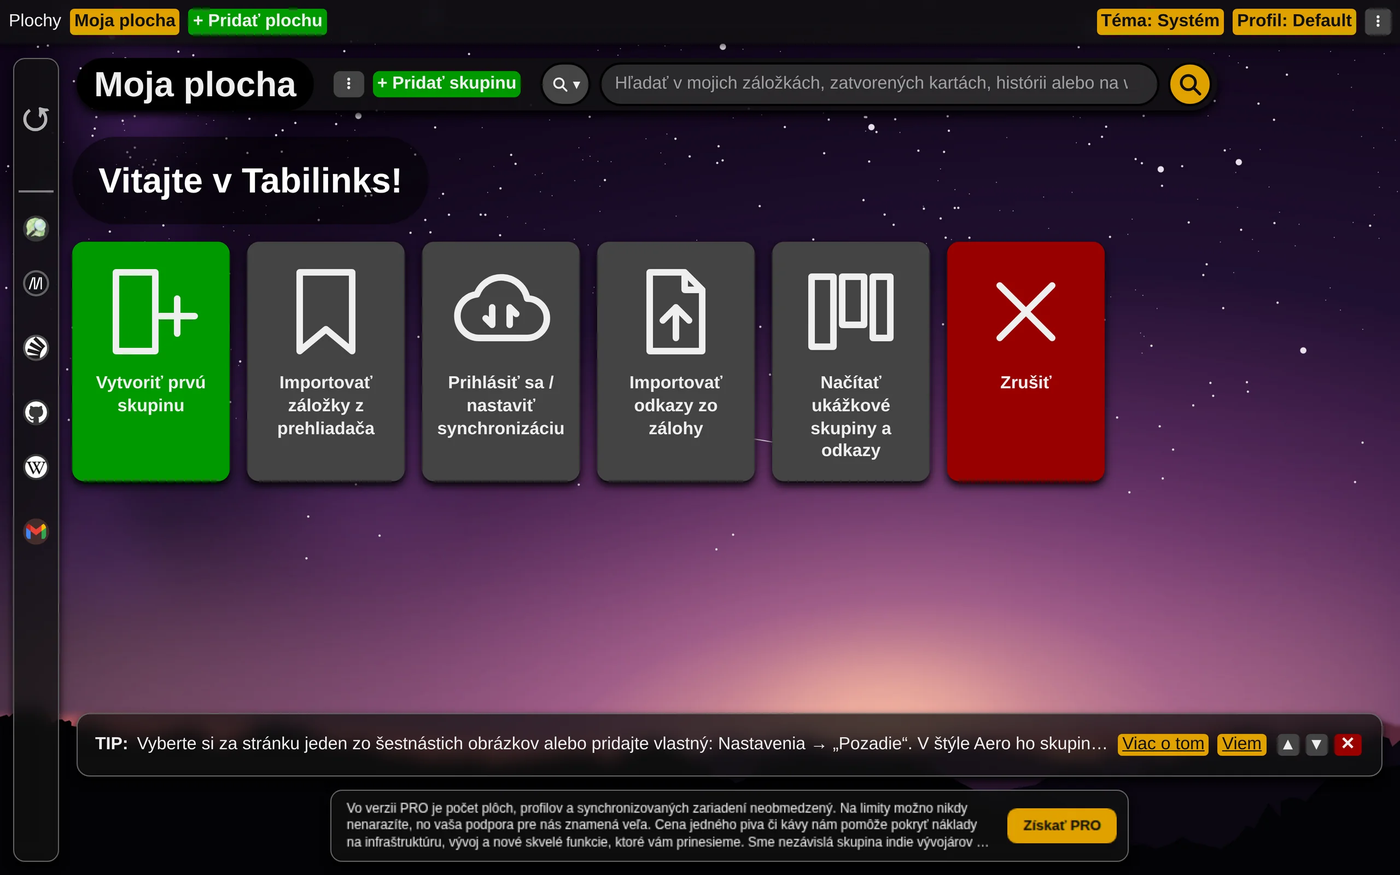
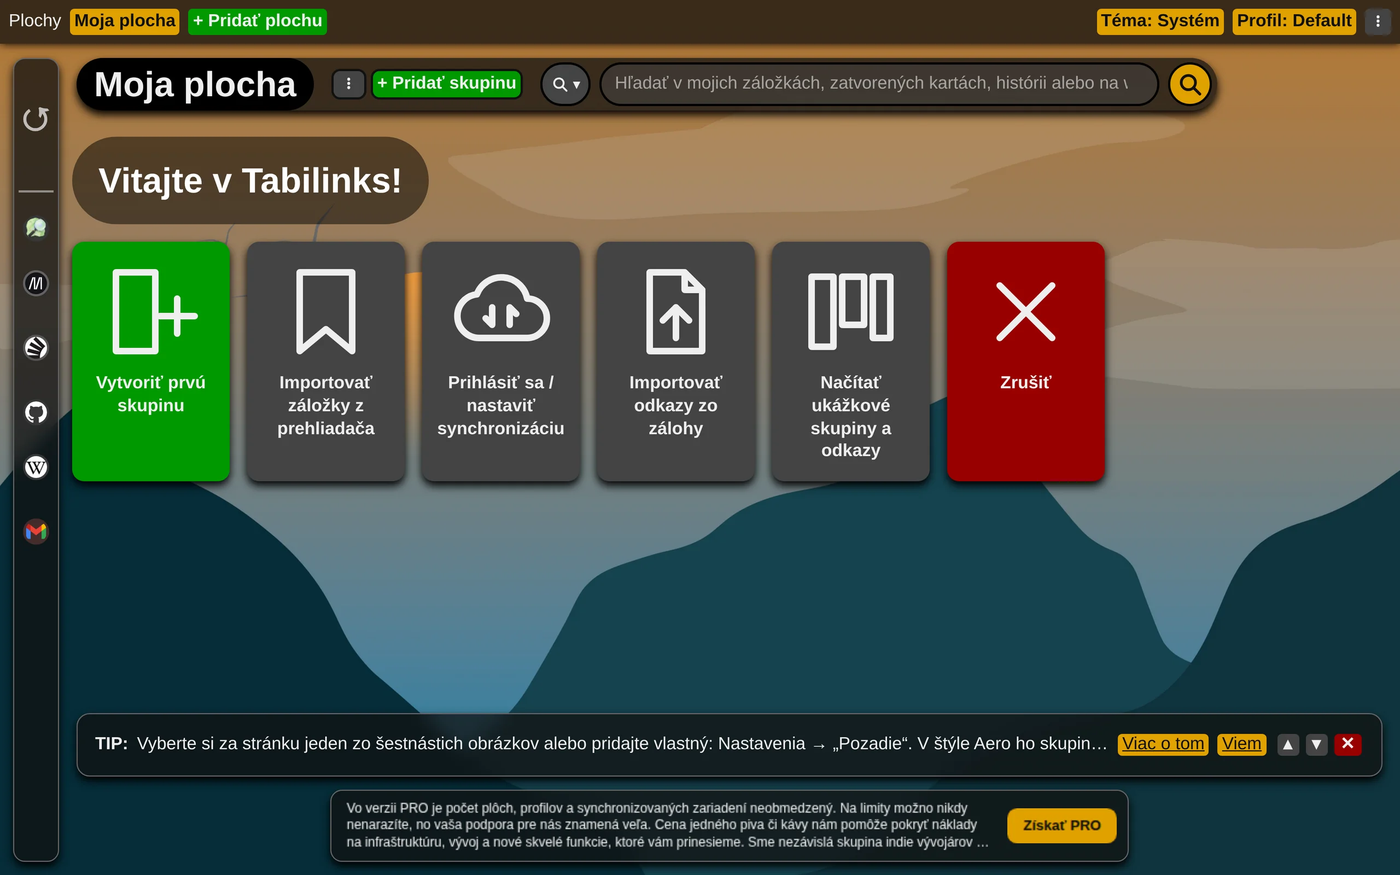
0.5.0 tips pictured, Save in one click highlight, privacy policy
The favorites, flash-save, accent-colour, resize-and-sort-groups and
import-bookmarks tips get their pictures (rendered by the extension's
Playwright scenes), each placed after what it shows; the ones only a
hand can take are listed at the tip's end. A new home page highlight,
"Save in one click", for fast-paced link grabbers, with its own SVG; the
others move down one place. The privacy policy says a backup file and
the example links stay in the browser, and that a link's icon may be
asked of that link's own website. Legal documents effective 2026-11-18.
lets-begin/1 is re-rendered over the right background.

diff --git a/src/app/core/legal/legal-operator.ts b/src/app/core/legal/legal-operator.ts
@@ -26,4 +26,4 @@ export const LEGAL_OPERATOR = {
  *
  * <p>Raise it whenever the wording of any of them changes in substance.</p>
  */
-export const LEGAL_DOCUMENTS_EFFECTIVE_DATE = '2026-11-15';
+export const LEGAL_DOCUMENTS_EFFECTIVE_DATE = '2026-11-18';

diff --git a/public/content/tips/sk/import-bookmarks.md b/public/content/tips/sk/import-bookmarks.md
@@ -4,11 +4,15 @@ Roky zbierané záložky nemusíte písať znova. Tabilinks dokáže priečinky 
 
 Prázdna plocha ponúka medzi uvítacími dlaždicami aj **„Importovať záložky z prehliadača“**. Kliknite naň. Prehliadač sa raz spýta na povolenie čítať vaše záložky - až v tejto chvíli, nikdy skôr.
 
+![Uvítanie pri prvom spustení, orámované „Importovať záložky z prehliadača“](../../../images/sk/tips/import-bookmarks/1_1x.webp)
+
 ## Čo si priniesť
 
 Dialóg ponúkne každý priečinok, ktorý leží priamo v paneli so záložkami, v ostatných záložkách a v mobilných záložkách, pri každom počet odkazov v ňom, a všetky budú zaškrtnuté. Ponúknuté sú aj záložky, ktoré v niektorom z nich ležia voľne, mimo priečinkov - ako skupina pomenovaná podľa neho.
 
 Odškrtnite, čo nechcete, a kliknite na **„Importovať“**:
+
+![Dialóg „Import záložiek“, všetky priečinky zaškrtnuté, pri každom počet odkazov](../../../images/sk/tips/import-bookmarks/3_1x.webp)
 
 - z každého zaškrtnutého priečinka bude skupina,
 - z jeho podpriečinkov podskupiny,
@@ -16,9 +20,13 @@ Odškrtnite, čo nechcete, a kliknite na **„Importovať“**:
 
 Bookmarklety - záložky, ktorých adresa začína `javascript:` - sa preskočia.
 
+![Plocha po importe: priečinky ako skupiny, podpriečinky ako podskupiny](../../../images/sk/tips/import-bookmarks/5_1x.webp)
+
 ## Limity
 
 Plocha pojme {fairUseGroupsPerWorkspace} skupín, {fairUseSubgroupsPerGroup} podskupín v skupine a {fairUseLinksPerWorkspace} odkazov. Ak by zaškrtnuté priečinky niektorý z týchto limitov prekročili, dialóg povie ktorý a „Importovať“ zostane neaktívne, kým ich neodškrtnete dosť.
+
+![Ten istý dialóg nad limitom, s jeho názvom a neaktívnym „Importovať“](../../../images/sk/tips/import-bookmarks/4_1x.webp)
 
 ## Súkromie
 
@@ -27,12 +35,7 @@ Záložky sa čítajú v prehliadači a nikam sa neposielajú. Po importe sú to
 Práve ste si nainštalovali Tabilinks? Začnite tu: [Začíname](lets-begin.md)
 
 <!--
-Obrázky, ktoré má tento tip dostať (svetlý vzhľad, anglicky aj slovensky):
-1. import-bookmarks/1 - prázdna plocha s uvítacími dlaždicami, zvýraznené „Importovať záložky z prehliadača“.
-2. import-bookmarks/2 - výzva prehliadača na povolenie čítať záložky.
-3. import-bookmarks/3 - dialóg importu záložiek s niekoľkými priečinkami, všetky zaškrtnuté, pri každom počet odkazov.
-4. import-bookmarks/4 - ten istý dialóg nad limitom, so správou, ktorý limit to je, „Importovať“ neaktívne.
-5. import-bookmarks/5 - plocha po importe, z priečinkov sú skupiny a z podpriečinkov podskupiny.
-Navrhované súbory: 1_1x.webp až 5_1x.webp v images/LANG/tips/import-bookmarks/
-Obrázok 2 je vlastná výzva prehliadača, ktorú snímka stránky nemusí zachytiť.
+Still to be pictured by hand:
+2. import-bookmarks/2 - the browser's permission prompt to read bookmarks (the browser's own, a page screenshot cannot capture it).
+Suggested file: 2_1x.webp in images/LANG/tips/import-bookmarks/
 -->

diff --git a/public/content/tips/sk/flash-save.md b/public/content/tips/sk/flash-save.md
@@ -4,6 +4,8 @@ Našli ste niečo, čo stojí za to si ponechať, ale nemáte čas rozhodovať, 
 
 Kliknite pravým tlačidlom na ktorúkoľvek stránku - alebo na odkaz na nej - otvorte položku **Tabilinks** a zvoľte **Rýchle uloženie**. Stránka sa uloží hneď, bez otázok, do skupiny „Rýchle uloženie“ v ploche, ktorú máte otvorenú. Skupina sa vytvorí pri prvom použití a ikona rozšírenia na lište ukáže fajku na znak, že stránka je uložená.
 
+![Nová karta so skupinou „Rýchle uloženie“ s niekoľkými uloženými stránkami](../../../images/sk/tips/flash-save/3_1x.webp)
+
 ## Bez myši
 
 **Alt+Shift+F** urobí to isté so stránkou, na ktorej práve ste, celkom bez ponuky. Skratku si môžete zmeniť na stránke prehliadača chrome://extensions/shortcuts.
@@ -14,6 +16,8 @@ V Nastaveniach → „Vzhľad a správanie“ určuje „Akcie v kontextovej pon
 
 - **Štandardné** - položka Tabilinks s Rýchlym uložením, Pridaním záložky… a Uložením do skupiny.
 - **Rýchle zbieranie odkazov** - len „Tabilinks: Rýchle uloženie“, priamo v ponuke, jedným kliknutím.
+
+![Nastavenia, Vzhľad a správanie, zvolené „Rýchle zbieranie odkazov“](../../../images/sk/tips/flash-save/4_1x.webp)
 
 ## Keď nie je miesto
 
@@ -26,12 +30,9 @@ Skupina „Rýchle uloženie“ je obyčajná skupina. Jej odkazy zoradíte voľ
 Zvyšok ponuky pravého tlačidla - uloženie s názvom alebo priamo do vybranej skupiny - nájdete v tipe [Uložiť práve prezeranú stránku](saving-from-webpage.md)
 
 <!--
-Obrázky, ktoré má tento tip dostať (svetlý vzhľad, anglicky aj slovensky):
-1. flash-save/1 - webová stránka s otvorenou ponukou pravého tlačidla prehliadača, v podponuke Tabilinks zvýraznené „Rýchle uloženie“.
-2. flash-save/2 - lišta s ikonou rozšírenia, ktorá po rýchlom uložení ukazuje fajku.
-3. flash-save/3 - nová karta so skupinou „Rýchle uloženie“ a niekoľkými uloženými stránkami.
-4. flash-save/4 - Nastavenia v sekcii „Vzhľad a správanie“, „Akcie v kontextovej ponuke prehliadača“ prepnuté na „Rýchle zbieranie odkazov“.
-5. flash-save/5 - ponuka pravého tlačidla v rýchlom režime s jedinou položkou „Tabilinks: Rýchle uloženie“.
-Navrhované súbory: 1_1x.webp až 5_1x.webp v images/LANG/tips/flash-save/
-Obrázky 1, 2 a 5 ukazujú ponuky a lištu prehliadača, ktoré snímka stránky nemusí zachytiť.
+Still to be pictured by hand (the browser's own menus and toolbar, which a page screenshot cannot capture):
+1. flash-save/1 - a web page with the browser's right-click menu open, the Tabilinks submenu showing "Flash save" highlighted.
+2. flash-save/2 - the toolbar with the extension's icon showing the tick after a flash save.
+5. flash-save/5 - the right-click menu in fast-paced mode, with the single "Tabilinks: Flash save" entry.
+Suggested files: 1_1x.webp, 2_1x.webp and 5_1x.webp in images/LANG/tips/flash-save/
 -->

diff --git a/public/content/tips/en/import-bookmarks.md b/public/content/tips/en/import-bookmarks.md
@@ -4,11 +4,15 @@ Years of bookmarks do not have to be typed in again. Tabilinks can turn your bro
 
 On an empty space, the welcome tiles include **"Import bookmarks from the browser"**. Click it. The browser asks once for permission to read your bookmarks - only then, never before.
 
+![The first-run welcome, "Import bookmarks from the browser" framed](../../../images/en/tips/import-bookmarks/1_1x.webp)
+
 ## Choosing what to bring
 
 The dialog offers every folder that sits directly inside Bookmarks bar, Other bookmarks and Mobile bookmarks, each with the number of links in it, all ticked. Bookmarks lying loose in one of those, outside any folder, are offered too, as a group named after it.
 
 Untick what you do not want, then click **"Import"**:
+
+![The "Import bookmarks" dialog, every folder ticked, each with its link count](../../../images/en/tips/import-bookmarks/3_1x.webp)
 
 - each ticked folder becomes a group,
 - its subfolders become subgroups,
@@ -16,9 +20,13 @@ Untick what you do not want, then click **"Import"**:
 
 Bookmarklets - bookmarks whose address starts with `javascript:` - are skipped.
 
+![The space after the import: folders as groups, subfolders as subgroups](../../../images/en/tips/import-bookmarks/5_1x.webp)
+
 ## Limits
 
 A space holds {fairUseGroupsPerWorkspace} groups, {fairUseSubgroupsPerGroup} subgroups in a group and {fairUseLinksPerWorkspace} links. If the ticked folders would go over any of these, the dialog says which, and "Import" stays disabled until you untick enough.
+
+![The same dialog over a limit, naming it, "Import" disabled](../../../images/en/tips/import-bookmarks/4_1x.webp)
 
 ## Privacy
 
@@ -27,12 +35,7 @@ Your bookmarks are read in the browser and never sent anywhere. Once imported, t
 Just installed Tabilinks? Start here: [Let's begin](lets-begin.md)
 
 <!--
-Pictures this tip should get (light theme, English and Slovak):
-1. import-bookmarks/1 - an empty space with its welcome tiles, "Import bookmarks from the browser" highlighted.
-2. import-bookmarks/2 - the browser's permission prompt to read bookmarks.
-3. import-bookmarks/3 - the "Import bookmarks" dialog listing several folders, all ticked, each with its link count.
-4. import-bookmarks/4 - the same dialog over a limit, its message naming which limit, "Import" disabled.
-5. import-bookmarks/5 - the space after the import, folders turned into groups and subfolders into subgroups.
-Suggested files: 1_1x.webp to 5_1x.webp in images/LANG/tips/import-bookmarks/
-Picture 2 is the browser's own prompt, which a page screenshot may not capture.
+Still to be pictured by hand:
+2. import-bookmarks/2 - the browser's permission prompt to read bookmarks (the browser's own, a page screenshot cannot capture it).
+Suggested file: 2_1x.webp in images/LANG/tips/import-bookmarks/
 -->

diff --git a/public/content/tips/sk/resize-and-sort-groups.md b/public/content/tips/sk/resize-and-sort-groups.md
@@ -6,7 +6,13 @@ Skupina nemusí byť taká široká a vysoká, ako ju urobí stránka. Nastavte 
 
 Potiahnutím pravého dolného rohu skupiny nastavíte jej šírku aj výšku - širšiu, užšiu, vyššiu alebo nižšiu, ľubovoľným smerom. Skupina nižšia, ako sú jej odkazy, sa dá posúvať.
 
+![Skupina zväčšovaná ťahaním za pravý dolný roh, širšia a vyššia ako susedné](../../../images/sk/tips/resize-and-sort-groups/1_1x.webp)
+
+![Skupina nižšia ako jej odkazy, posunutá do polovice](../../../images/sk/tips/resize-and-sort-groups/2_1x.webp)
+
 Veľkosť si pamätá len toto zariadenie, takže široká obrazovka aj malý notebook môžu mať každý svoju. K automatickej veľkosti sa vrátite dvojklikom na roh alebo voľbou **„Obnoviť veľkosť“** v ponuke skupiny (tri bodky).
+
+![Ponuka zväčšenej skupiny so „Zoradiť odkazy“ a „Obnoviť veľkosť“](../../../images/sk/tips/resize-and-sort-groups/3_1x.webp)
 
 ## Zoradenie
 
@@ -17,16 +23,14 @@ V ponuke skupiny zvoľte **„Zoradiť odkazy“** a potom jednu z možností:
 - **Názov A–Z**
 - **Názov Z–A**
 
+![Dialóg „Zoradiť odkazy“](../../../images/sk/tips/resize-and-sort-groups/4_1x.webp)
+
 Podskupiny si ponechajú svoje miesto a ich vlastné odkazy sa zoradia tiež.
 
 Zoradenie sa urobí raz, nie je to nastavenie: odkazy pridané neskôr pôjdu na koniec a ktorýkoľvek z nich môžete stále presunúť ťahaním. [Usporiadanie položiek ťahaním myšou](use-drag-and-drop.md)
 
 <!--
-Obrázky, ktoré má tento tip dostať (svetlý vzhľad, anglicky aj slovensky):
-1. resize-and-sort-groups/1 - skupina s kurzorom na pravom dolnom rohu počas ťahania, viditeľne širšia a vyššia ako susedné.
-2. resize-and-sort-groups/2 - skupina nižšia, ako sú jej odkazy, čiastočne posunutá.
-3. resize-and-sort-groups/3 - otvorená ponuka skupiny (tri bodky) s položkami „Zoradiť odkazy“ a „Obnoviť veľkosť“.
-4. resize-and-sort-groups/4 - dialóg „Zoradiť odkazy“ s možnosťami Najnovšie prvé, Najstaršie prvé, Názov A–Z a Názov Z–A.
-5. resize-and-sort-groups/5 - tá istá skupina pred zoradením podľa názvu a po ňom, podskupina v oboch na tom istom mieste.
-Navrhované súbory: 1_1x.webp až 5_1x.webp v images/LANG/tips/resize-and-sort-groups/
+Still to be pictured:
+5. resize-and-sort-groups/5 - the same group before and after sorting by name, a subgroup in the same place in both.
+Suggested file: 5_1x.webp in images/LANG/tips/resize-and-sort-groups/
 -->

diff --git a/public/content/tips/sk/favorites.md b/public/content/tips/sk/favorites.md
@@ -4,11 +4,17 @@ Niektoré odkazy otvárate každý deň, iné raz za mesiac. Tie každodenné si
 
 Obľúbené sú vypnuté, kým si ich nezapnete: otvorte menu (tri bodky vpravo hore) → Nastavenia → „Funkcie“ a zaškrtnite **„Obľúbené“**.
 
+![Nastavenia, Funkcie, zaškrtnuté Obľúbené](../../../images/sk/tips/favorites/1_1x.webp)
+
 ## Označenie odkazu
 
 Odvtedy má každý odkaz na konci krúžok. Kliknite naň a zozlatne - odkaz je obľúbený. Ďalším kliknutím označenie zrušíte.
 
+![Skupina odkazov s krúžkom na konci každého, dva zozlatnuté](../../../images/sk/tips/favorites/2_1x.webp)
+
 Odkaz označíte aj z jeho ponuky pravého tlačidla, položkami **„Pridať medzi obľúbené“** a **„Odobrať z obľúbených“**, alebo hneď pri pridávaní, zaškrtnutím **„Obľúbený“** v ukladacom okne.
+
+![Ponuka pravého tlačidla odkazu s položkou „Pridať medzi obľúbené“](../../../images/sk/tips/favorites/3_1x.webp)
 
 ## Z bočného panela a vyhľadávania
 
@@ -20,18 +26,12 @@ Bočný panel má vlastnú kartu **„Obľúbené“**. Zobrazuje obľúbené od
 
 Pretiahnite odkaz na túto kartu a označíte ho. Odkaz zostane tam, kde bol, vo svojej skupine.
 
+![Bočný panel otvorený na karte Obľúbené](../../../images/sk/tips/favorites/4_1x.webp)
+
 Okno ikony na lište zobrazuje tie isté obľúbené pod svojím formulárom, takže ich máte poruke na ktorejkoľvek stránke.
+
+![Okno ikony na lište s obľúbenými pod formulárom](../../../images/sk/tips/favorites/5_1x.webp)
 
 Obľúbené sa synchronizujú s vaším účtom, rovnako ako samotné odkazy.
 
 Viac o bočnom paneli: [Objav históriu](discover-history.md)
-
-<!--
-Obrázky, ktoré má tento tip dostať (svetlý vzhľad, anglicky aj slovensky):
-1. favorites/1 - Nastavenia otvorené na kategórii „Funkcie“, zaškrtnuté „Obľúbené“.
-2. favorites/2 - skupina odkazov s krúžkom na konci každého riadka, dva z nich zlaté (označené); kurzor nad prázdnym krúžkom.
-3. favorites/3 - ponuka pravého tlačidla odkazu s položkou „Pridať medzi obľúbené“.
-4. favorites/4 - bočný panel otvorený na karte „Obľúbené“, obľúbené odkazy otvorenej plochy so svojimi skupinami.
-5. favorites/5 - okno ikony na lište s formulárom a pod ním zoznam obľúbených.
-Navrhované súbory: 1_1x.webp až 5_1x.webp v images/LANG/tips/favorites/
--->

diff --git a/public/content/tips/en/flash-save.md b/public/content/tips/en/flash-save.md
@@ -4,6 +4,8 @@ Found something worth keeping but no time to decide where it goes? Flash save ke
 
 Right-click any page - or a link on it - open the **Tabilinks** entry and choose **Flash save**. The page is saved at once, with no questions, into a group called "Flash save" in the space you have open. The group is made the first time you use it, and the extension's icon in the toolbar shows a tick to say the page was kept.
 
+![The new tab page with the "Flash save" group holding a few saved pages](../../../images/en/tips/flash-save/3_1x.webp)
+
 ## Without the mouse
 
 **Alt+Shift+F** does the same for the page you are on, with no menu at all. You can change the shortcut on the browser's page chrome://extensions/shortcuts.
@@ -14,6 +16,8 @@ In Settings → "UI and behavior", "Browser context menu actions" decides what t
 
 - **Standard** - the Tabilinks entry with Flash save, Add bookmark… and Save to group.
 - **Fast-paced link grabbing** - only "Tabilinks: Flash save", straight in the menu, one click.
+
+![Settings, UI and behavior, "Fast-paced link grabbing" chosen](../../../images/en/tips/flash-save/4_1x.webp)
 
 ## When there is no room
 
@@ -26,12 +30,9 @@ The "Flash save" group is an ordinary group. Put its links in order with "Sort l
 The rest of the right-click menu - saving with a name, or straight into a group you pick - is in [Save the page you are viewing](saving-from-webpage.md)
 
 <!--
-Pictures this tip should get (light theme, English and Slovak):
+Still to be pictured by hand (the browser's own menus and toolbar, which a page screenshot cannot capture):
 1. flash-save/1 - a web page with the browser's right-click menu open, the Tabilinks submenu showing "Flash save" highlighted.
 2. flash-save/2 - the toolbar with the extension's icon showing the tick after a flash save.
-3. flash-save/3 - the new tab page with the "Flash save" group holding a few saved pages.
-4. flash-save/4 - Settings at "UI and behavior", the "Browser context menu actions" choice set to "Fast-paced link grabbing".
 5. flash-save/5 - the right-click menu in fast-paced mode, with the single "Tabilinks: Flash save" entry.
-Suggested files: 1_1x.webp to 5_1x.webp in images/LANG/tips/flash-save/
-Pictures 1, 2 and 5 show browser menus and the toolbar, which a page screenshot may not capture.
+Suggested files: 1_1x.webp, 2_1x.webp and 5_1x.webp in images/LANG/tips/flash-save/
 -->

diff --git a/public/content/tips/en/favorites.md b/public/content/tips/en/favorites.md
@@ -4,11 +4,17 @@ Some links you open every day, others once a month. Mark the everyday ones as fa
 
 Favorites are off until you turn them on: open the menu (the three dots at the top right) → Settings → "Functions" and check **"Favorites"**.
 
+![Settings, Functions, the Favorites checkbox ticked](../../../images/en/tips/favorites/1_1x.webp)
+
 ## Marking a link
 
 From then on every link has a circle at its end. Click it and it turns golden - the link is a favorite. Click it again to unmark it.
 
+![A group of links with a circle at the end of each, two of them golden](../../../images/en/tips/favorites/2_1x.webp)
+
 A link can also be marked from its right-click menu, with **"Add to favorites"** and **"Remove from favorites"**, or straight away when you add it, by ticking **"Favorite"** in the save window.
+
+![A link's right-click menu with "Add to favorites"](../../../images/en/tips/favorites/3_1x.webp)
 
 ## From the side panel and the search bar
 
@@ -20,18 +26,12 @@ The side panel has a **"Favorites"** card of its own. It lists the favorites of 
 
 Drag a link onto the card to mark it. The link stays where it was, in its group.
 
+![The side panel open on the Favorites card](../../../images/en/tips/favorites/4_1x.webp)
+
 The toolbar popup lists the same favorites under its form, so they are at hand on any page.
+
+![The toolbar popup with the favorites listed under its form](../../../images/en/tips/favorites/5_1x.webp)
 
 Favorites are synchronized with your account, just like the links themselves.
 
 More about the side panel: [Discover history](discover-history.md)
-
-<!--
-Pictures this tip should get (light theme, English and Slovak):
-1. favorites/1 - Settings opened at the "Functions" category, the "Favorites" checkbox ticked.
-2. favorites/2 - a group of links with the circle at the end of each row, two of them golden (marked); the pointer over an empty circle.
-3. favorites/3 - a link's right-click menu showing "Add to favorites".
-4. favorites/4 - the side panel open on the "Favorites" card, the open space's favorites listed with their groups.
-5. favorites/5 - the toolbar popup with its form and the favorites listed under it.
-Suggested files: 1_1x.webp to 5_1x.webp in images/LANG/tips/favorites/
--->

diff --git a/public/content/tips/en/resize-and-sort-groups.md b/public/content/tips/en/resize-and-sort-groups.md
@@ -6,7 +6,13 @@ A group does not have to be as wide and as tall as the page makes it. Make it th
 
 Drag a group's bottom-right corner to set its width and height - wider, narrower, taller or shorter, in any direction. A group made shorter than its links scrolls.
 
+![A group being resized by its bottom-right corner, wider and taller than its neighbours](../../../images/en/tips/resize-and-sort-groups/1_1x.webp)
+
+![A group made shorter than its links, scrolled part way](../../../images/en/tips/resize-and-sort-groups/2_1x.webp)
+
 The size is remembered on this device only, so a wide screen and a small laptop can each have their own. To go back to the automatic size, double-click the corner, or choose **"Reset size"** in the group's menu (the three dots).
+
+![A resized group's menu with "Sort links" and "Reset size"](../../../images/en/tips/resize-and-sort-groups/3_1x.webp)
 
 ## Sort
 
@@ -17,16 +23,14 @@ Choose **"Sort links"** in the group's menu, then one of:
 - **Name A–Z**
 - **Name Z–A**
 
+![The "Sort links" dialog](../../../images/en/tips/resize-and-sort-groups/4_1x.webp)
+
 Subgroups keep their places, and their own links are sorted too.
 
 Sorting is done once, it is not a setting: links you add later go to the end, and you can still move any of them by dragging. [Use drag-and-drop to organize items](use-drag-and-drop.md)
 
 <!--
-Pictures this tip should get (light theme, English and Slovak):
-1. resize-and-sort-groups/1 - a group with the pointer on its bottom-right corner, mid-drag, the group visibly wider and taller than its neighbours.
-2. resize-and-sort-groups/2 - a group made shorter than its links, scrolled part way.
-3. resize-and-sort-groups/3 - a group's menu (three dots) open, showing "Sort links" and "Reset size".
-4. resize-and-sort-groups/4 - the "Sort links" dialog with Newest first, Oldest first, Name A–Z and Name Z–A.
+Still to be pictured:
 5. resize-and-sort-groups/5 - the same group before and after sorting by name, a subgroup in the same place in both.
-Suggested files: 1_1x.webp to 5_1x.webp in images/LANG/tips/resize-and-sort-groups/
+Suggested file: 5_1x.webp in images/LANG/tips/resize-and-sort-groups/
 -->

diff --git a/public/content/tips/en/accent-colour.md b/public/content/tips/en/accent-colour.md
@@ -4,6 +4,8 @@ The accent colour is the one that says "this is active" - it colours active and 
 
 Choose it in Settings → "UI and behavior" → **"Accent colour"**, from seven swatches:
 
+![Settings, UI and behavior, the seven accent colour swatches](../../../images/en/tips/accent-colour/1_1x.webp)
+
 - **Amber** - the default, drawn with dark text on it, so it stays readable
 - **Blue**
 - **Indigo**
@@ -14,12 +16,8 @@ Choose it in Settings → "UI and behavior" → **"Accent colour"**, from seven 
 
 The change applies straight away.
 
-Like the theme, the accent colour is not synchronized; it is remembered only in the browser where you set it. To choose between light and dark, flat and glass: [Choose a light or dark theme](choose-theme.md)
+![The same corner of the page in amber, blue and magenta, light theme](../../../images/en/tips/accent-colour/2_1x.webp)
 
-<!--
-Pictures this tip should get (English and Slovak):
-1. accent-colour/1 - Settings at "UI and behavior", the "Accent colour" row with its seven swatches, one of them chosen.
-2. accent-colour/2 - the same part of the page (a highlighted button, the chosen side panel card, a focused field) in three accents side by side, e.g. blue, magenta and amber, light theme.
-3. accent-colour/3 - the same with a dark theme, to show amber's dark text.
-Suggested files: 1_1x.webp to 3_1x.webp in images/LANG/tips/accent-colour/
--->
+![The same corner of the page in amber, blue and magenta, dark theme](../../../images/en/tips/accent-colour/3_1x.webp)
+
+Like the theme, the accent colour is not synchronized; it is remembered only in the browser where you set it. To choose between light and dark, flat and glass: [Choose a light or dark theme](choose-theme.md)

diff --git a/public/content/home-features/sk/2-flash-save.md b/public/content/home-features/sk/2-flash-save.md
@@ -1,0 +1,16 @@
+![Stránka uložená z ponuky pravého tlačidla jedným kliknutím, rovno v skupine odkazov](../../../images/sk/home-features/flash-save/flash-save.svg)
+
+# Uloženie jedným kliknutím
+
+- Pre tých, čo **zbierajú odkazy rýchlo**: pri zháňaní materiálu na projekt stále nachádzate stránky, ktoré stoja za to - a nie je čas rozhodovať, kam ktorá patrí.
+
+- **Rýchle uloženie** stránku uloží hneď, bez otázok: pravé tlačidlo → Tabilinks → Rýchle uloženie, alebo **Alt+Shift+F**. Stránka sa ocitne v skupine „Rýchle uloženie“ v ploche, ktorú máte otvorenú.
+
+- Ešte rýchlejšie? Jedno nastavenie nechá v ponuke pravého tlačidla len Rýchle uloženie - jedno kliknutie na stránku.
+
+- **Zbierajte hneď, triedte neskôr**: keď je materiál pokope, pretiahnite odkazy do skupín, kam patria.
+
+- Ideálne napríklad pre **tvorcov obsahu na YouTube**, ktorí zbierajú zdroje, hudbu a zábery na ďalšie video - alebo pre každého, kto si pred písaním, tvorbou či nákupom robí prieskum.
+
+  - [Rýchle uloženie: stránka jedným kliknutím](../../tips/sk/flash-save.md)
+  - [Zmeňte veľkosť skupiny a zoraďte jej odkazy](../../tips/sk/resize-and-sort-groups.md)
